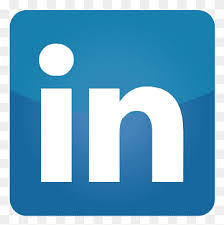
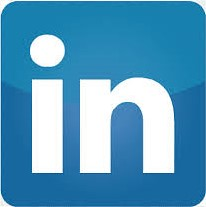
Added changes

diff --git a/index.html b/index.html
@@ -90,7 +90,7 @@
                 <span class="fa-stack fa-lg">
                   <!-- <i class="fa fa-circle fa-stack-2x"></i> -->
                   <!-- <i class="fa fa-envelope fa-stack-1x fa-inverse"></i> -->
-                  <img src="imgs\gmail.jpeg" class="fa fa-envelope fa-stack-1x fa-inverse" style="height: 37px; width: 43px;" />
+                  <img src="imgs\gmail.jpeg" class="fa fa-envelope fa-stack-1x fa-inverse" style="height: 39px; width: 43px;" />
                 </span>
               </a>
             </li>
@@ -99,7 +99,7 @@
                 <span class="fa-stack fa-lg">
                   <!-- <i class="fa fa-circle fa-stack-2x"></i>
                   <i class="fa fa-linkedin fa-stack-1x fa-inverse"></i> -->
-                  <img src="imgs\linkedin.jpeg" class="fa fa-envelope fa-stack-1x fa-inverse" style="height: 42px; width: 45px;" />
+                  <img src="imgs\linkedin.jpeg" class="fa fa-envelope fa-stack-1x fa-inverse" style="height: 40px; width: 45px;" />
                 </span>
               </a>
             </li>
@@ -117,7 +117,7 @@
                 <span class="fa-stack fa-lg">
                   <!-- <i class="fa fa-circle fa-stack-2x"></i>
                   <i class="fa fa-linkedin fa-stack-1x fa-inverse"></i> -->
-                  <img src="imgs\cv.png" class="fa fa-envelope fa-stack-1x fa-inverse" style="height: 42px; width: 45px;" />
+                  <img src="imgs\cv.png" class="fa fa-envelope fa-stack-1x fa-inverse" style="height: 41px; width: 45px;" />
                 </span>
               </a>
             </li>

diff --git a/experience.html b/experience.html
@@ -94,7 +94,7 @@
 
           <div class="resume-item d-flex flex-column flex-md-row mb-4">
             <div class="resume-content mr-auto">
-              <h5 class="mb-0">Full Stack Developer Intern</h5>
+              <h5 class="mb-0">Back End Developer Intern</h5>
               <h6>CareerBolt</h6>
               <p>- Working with cloud infrastructure using Rest API, Node.js, setting up and maintaining servers using AWS Lambda, DynamoDB, API Gateway, Amazon Cognito</p>
             </div>

diff --git a/css/resume.css b/css/resume.css
@@ -49,6 +49,12 @@ h2 {
   .list-icons .list-inline-item i:hover {
     color: #474849; }
 
+
+.list-inline-item img {
+  border-radius: 10%; /* Makes the border circular */
+  /* overflow: hidden; This is necessary to make the corners round */
+}
+    
 #sideNav .navbar-nav .nav-item .nav-link {
   font-weight: 600;
   text-transform: uppercase; 
